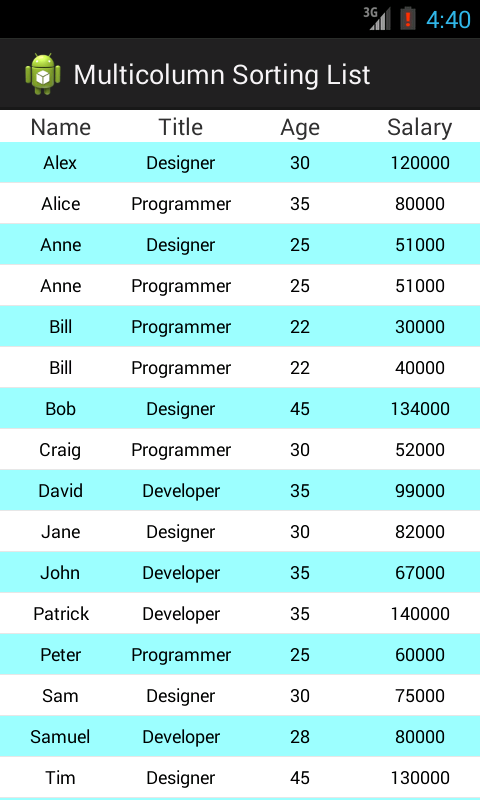
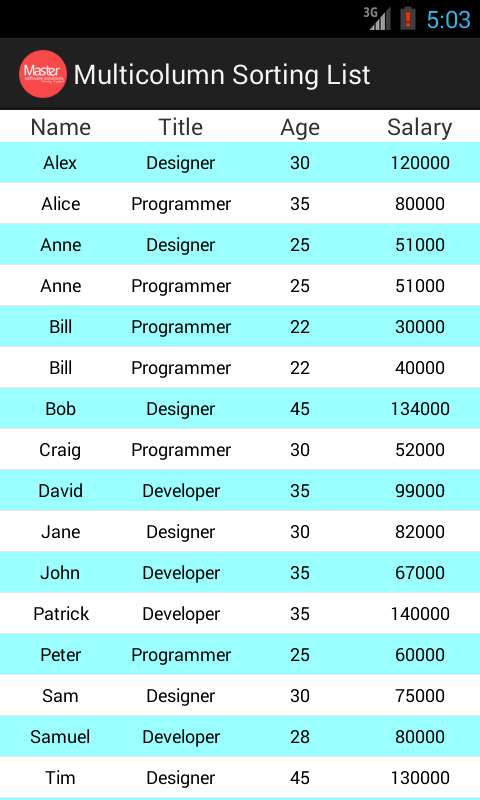
Update README and Splash

Changed region(s): [[0.0312, 0.0625, 0.1562, 0.125], [0.875, 0.0, 0.9688, 0.0312]]

diff --git a/Multicolumn Sorting List/src/com/mss/multicolumnsortinglist/MainActivity.java b/Multicolumn Sorting List/src/com/mss/multicolumnsortinglist/MainActivity.java
@@ -16,7 +16,7 @@ import android.widget.ListView;
  */
 public class MainActivity extends Activity {
 
-	ListView			list1;
+	ListView			listView;
 	ListArrayAdapter	adapter;
 
 	String				names[];
@@ -29,7 +29,7 @@ public class MainActivity extends Activity {
 	protected void onCreate(Bundle savedInstanceState) {
 		super.onCreate(savedInstanceState);
 		setContentView(R.layout.activity_main);
-		list1 = (ListView) findViewById(R.id.listView1);
+		listView = (ListView) findViewById(R.id.listView1);
 		getList();
 	}
 
@@ -87,6 +87,6 @@ public class MainActivity extends Activity {
 		}
 
 		adapter = new ListArrayAdapter(getApplicationContext(), salary, title, names, age);
-		list1.setAdapter(adapter);
+		listView.setAdapter(adapter);
 	}
 }

diff --git a/README.md b/README.md
@@ -1,4 +1,4 @@
-multicolumn_sorting	{#welcome}
+Multicolumn Sorting List
 =====================
 
 Demo implementation of multicolumn list sorting.
@@ -37,5 +37,12 @@ you have to add **"common-lang3.jar"** into Build Path.
  >3. Now just click on **Run**.
 
 
+----------
+
+ - Sorted List on the basis of **name**, **job title**, **age**, **salary** respectively.
+
+ ![Sorted List on the basis of name, job title, age, salary respectively][2]
+
+
   [1]: http://www.java2s.com/Code/Jar/c/Downloadcommonlang3jar.htm
-  [2]: http://www.java2s.com/Code/Jar/c/Downloadcommonlang3jar.htm
+  [2]: https://lh3.googleusercontent.com/JdYCFCQdtB_OSoYB_37UYfw1ELscYQzvyLeXh1pdoA=s0
